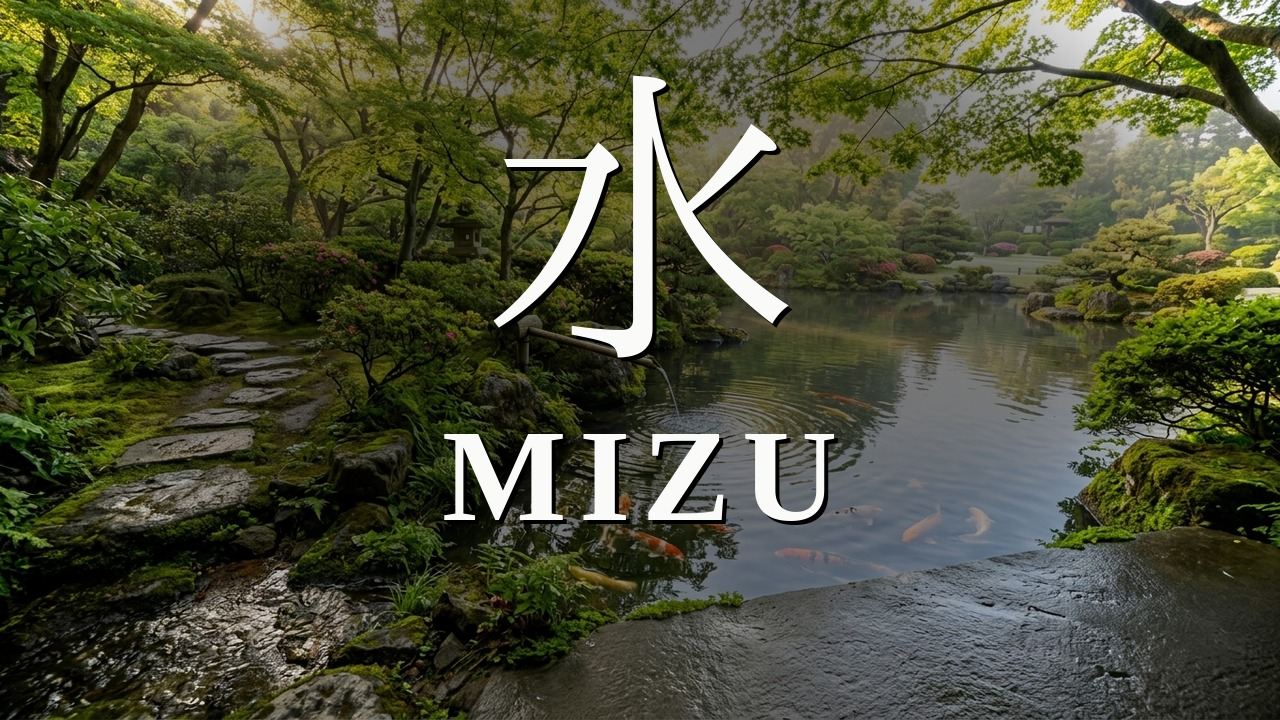
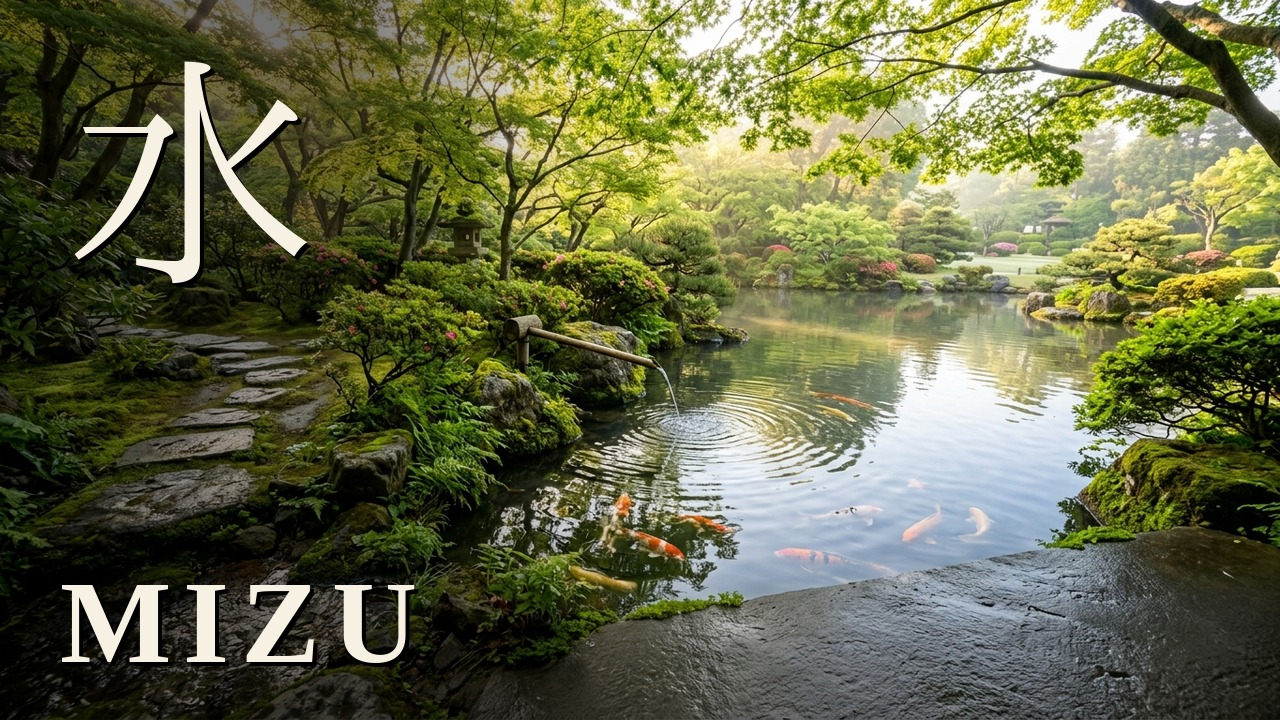
MIZU: thumbnail v2 — 水 upper-left + MIZU lower-left corner layout (WABI SABI/IKIGAI style), darkened corners
Claude-Session: https://claude.ai/code/session_014rUxCAgr4C7iAmMHbP4fFt

diff --git a/stillwave/assets/mizu-2h-compose-thumb.py b/stillwave/assets/mizu-2h-compose-thumb.py
@@ -2,9 +2,11 @@
 """
 MIZU — 水 | long-form thumbnail compose (1280x720).
 
-Kanji-Concept layout: 水 LARGE upper-center + MIZU romaji below, white with a
-soft shadow, over a soft radial darkening so the text pops on the bright morning
-koi-pond image. Lower-right kept clear for the logo.
+Layout (same as WABI SABI / IKIGAI):
+  - 水 kanji — UPPER-LEFT corner
+  - MIZU romaji — LOWER-LEFT corner
+  - soft darkening behind BOTH corners so text pops on the bright koi-pond image
+  - lower-right kept clear for the logo
 
 Source: mizu-2h-source.jpg (koi pond, bamboo spout, morning light)
 Output: mizu-2h-thumb.jpg (1280x720, JPEG q92)
@@ -18,19 +20,21 @@ SRC = HERE / "mizu-2h-source.jpg"
 OUT = HERE / "mizu-2h-thumb.jpg"
 
 W, H = 1280, 720
-WHITE = (250, 250, 248)
-SHADOW = (0, 0, 0, 160)
+CREAM = (247, 241, 228)
+SHADOW = (0, 0, 0, 170)
 
 KANJI_FONT = "/usr/share/fonts/opentype/ipafont-mincho/ipam.ttf"
 ROMAJI_FONT = "/usr/share/fonts/truetype/liberation/LiberationSerif-Bold.ttf"
 
 KANJI = "水"
-KANJI_SIZE = 330
-KANJI_Y = 48
+KANJI_SIZE = 260
+KANJI_X = 60
+KANJI_Y = 40
 
 ROMAJI = "MIZU"
-ROMAJI_SIZE = 132
-ROMAJI_Y = 402
+ROMAJI_SIZE = 118
+ROMAJI_X = 60
+ROMAJI_Y = 556
 ROMAJI_SPACING = 12
 
 
@@ -46,23 +50,22 @@ def fit_cover(img):
     return img.resize((W, H), Image.LANCZOS)
 
 
-def darken_behind(bg):
-    """Soft radial darkening centered on the upper-center text zone."""
+def darken(bg):
+    """Soft darkening behind the upper-left and lower-left text corners."""
     layer = Image.new("RGBA", (W, H), (0, 0, 0, 0))
     d = ImageDraw.Draw(layer)
-    cx, cy = W // 2, 300
-    rx, ry = 560, 340
-    d.ellipse((cx - rx, cy - ry, cx + rx, cy + ry), fill=(0, 0, 0, 135))
-    layer = layer.filter(ImageFilter.GaussianBlur(70))
+    # upper-left (behind 水)
+    d.ellipse((-260, -220, 470, 430), fill=(0, 0, 0, 140))
+    # lower-left (behind MIZU)
+    d.ellipse((-320, 470, 620, 940), fill=(0, 0, 0, 140))
+    layer = layer.filter(ImageFilter.GaussianBlur(75))
     return Image.alpha_composite(bg.convert("RGBA"), layer).convert("RGB")
 
 
-def draw_center(d, y, text, font, spacing):
-    total = d.textlength(text, font=font) + spacing * (len(text) - 1)
-    x = (W - total) / 2
+def draw_left(d, x, y, text, font, spacing):
     for ch in text:
         d.text((x + 4, y + 4), ch, font=font, fill=SHADOW)
-        d.text((x, y), ch, font=font, fill=WHITE)
+        d.text((x, y), ch, font=font, fill=CREAM)
         x += d.textlength(ch, font=font) + spacing
 
 
@@ -71,11 +74,11 @@ def main():
         raise SystemExit(f"Source not found: {SRC}")
 
     bg = fit_cover(Image.open(SRC).convert("RGB"))
-    bg = darken_behind(bg)
+    bg = darken(bg)
 
     d = ImageDraw.Draw(bg)
-    draw_center(d, KANJI_Y, KANJI, ImageFont.truetype(KANJI_FONT, KANJI_SIZE), 0)
-    draw_center(d, ROMAJI_Y, ROMAJI, ImageFont.truetype(ROMAJI_FONT, ROMAJI_SIZE), ROMAJI_SPACING)
+    draw_left(d, KANJI_X, KANJI_Y, KANJI, ImageFont.truetype(KANJI_FONT, KANJI_SIZE), 0)
+    draw_left(d, ROMAJI_X, ROMAJI_Y, ROMAJI, ImageFont.truetype(ROMAJI_FONT, ROMAJI_SIZE), ROMAJI_SPACING)
 
     bg.save(OUT, "JPEG", quality=92, optimize=True, progressive=True)
     print(f"Saved → {OUT}  ({OUT.stat().st_size // 1024} KB)")
